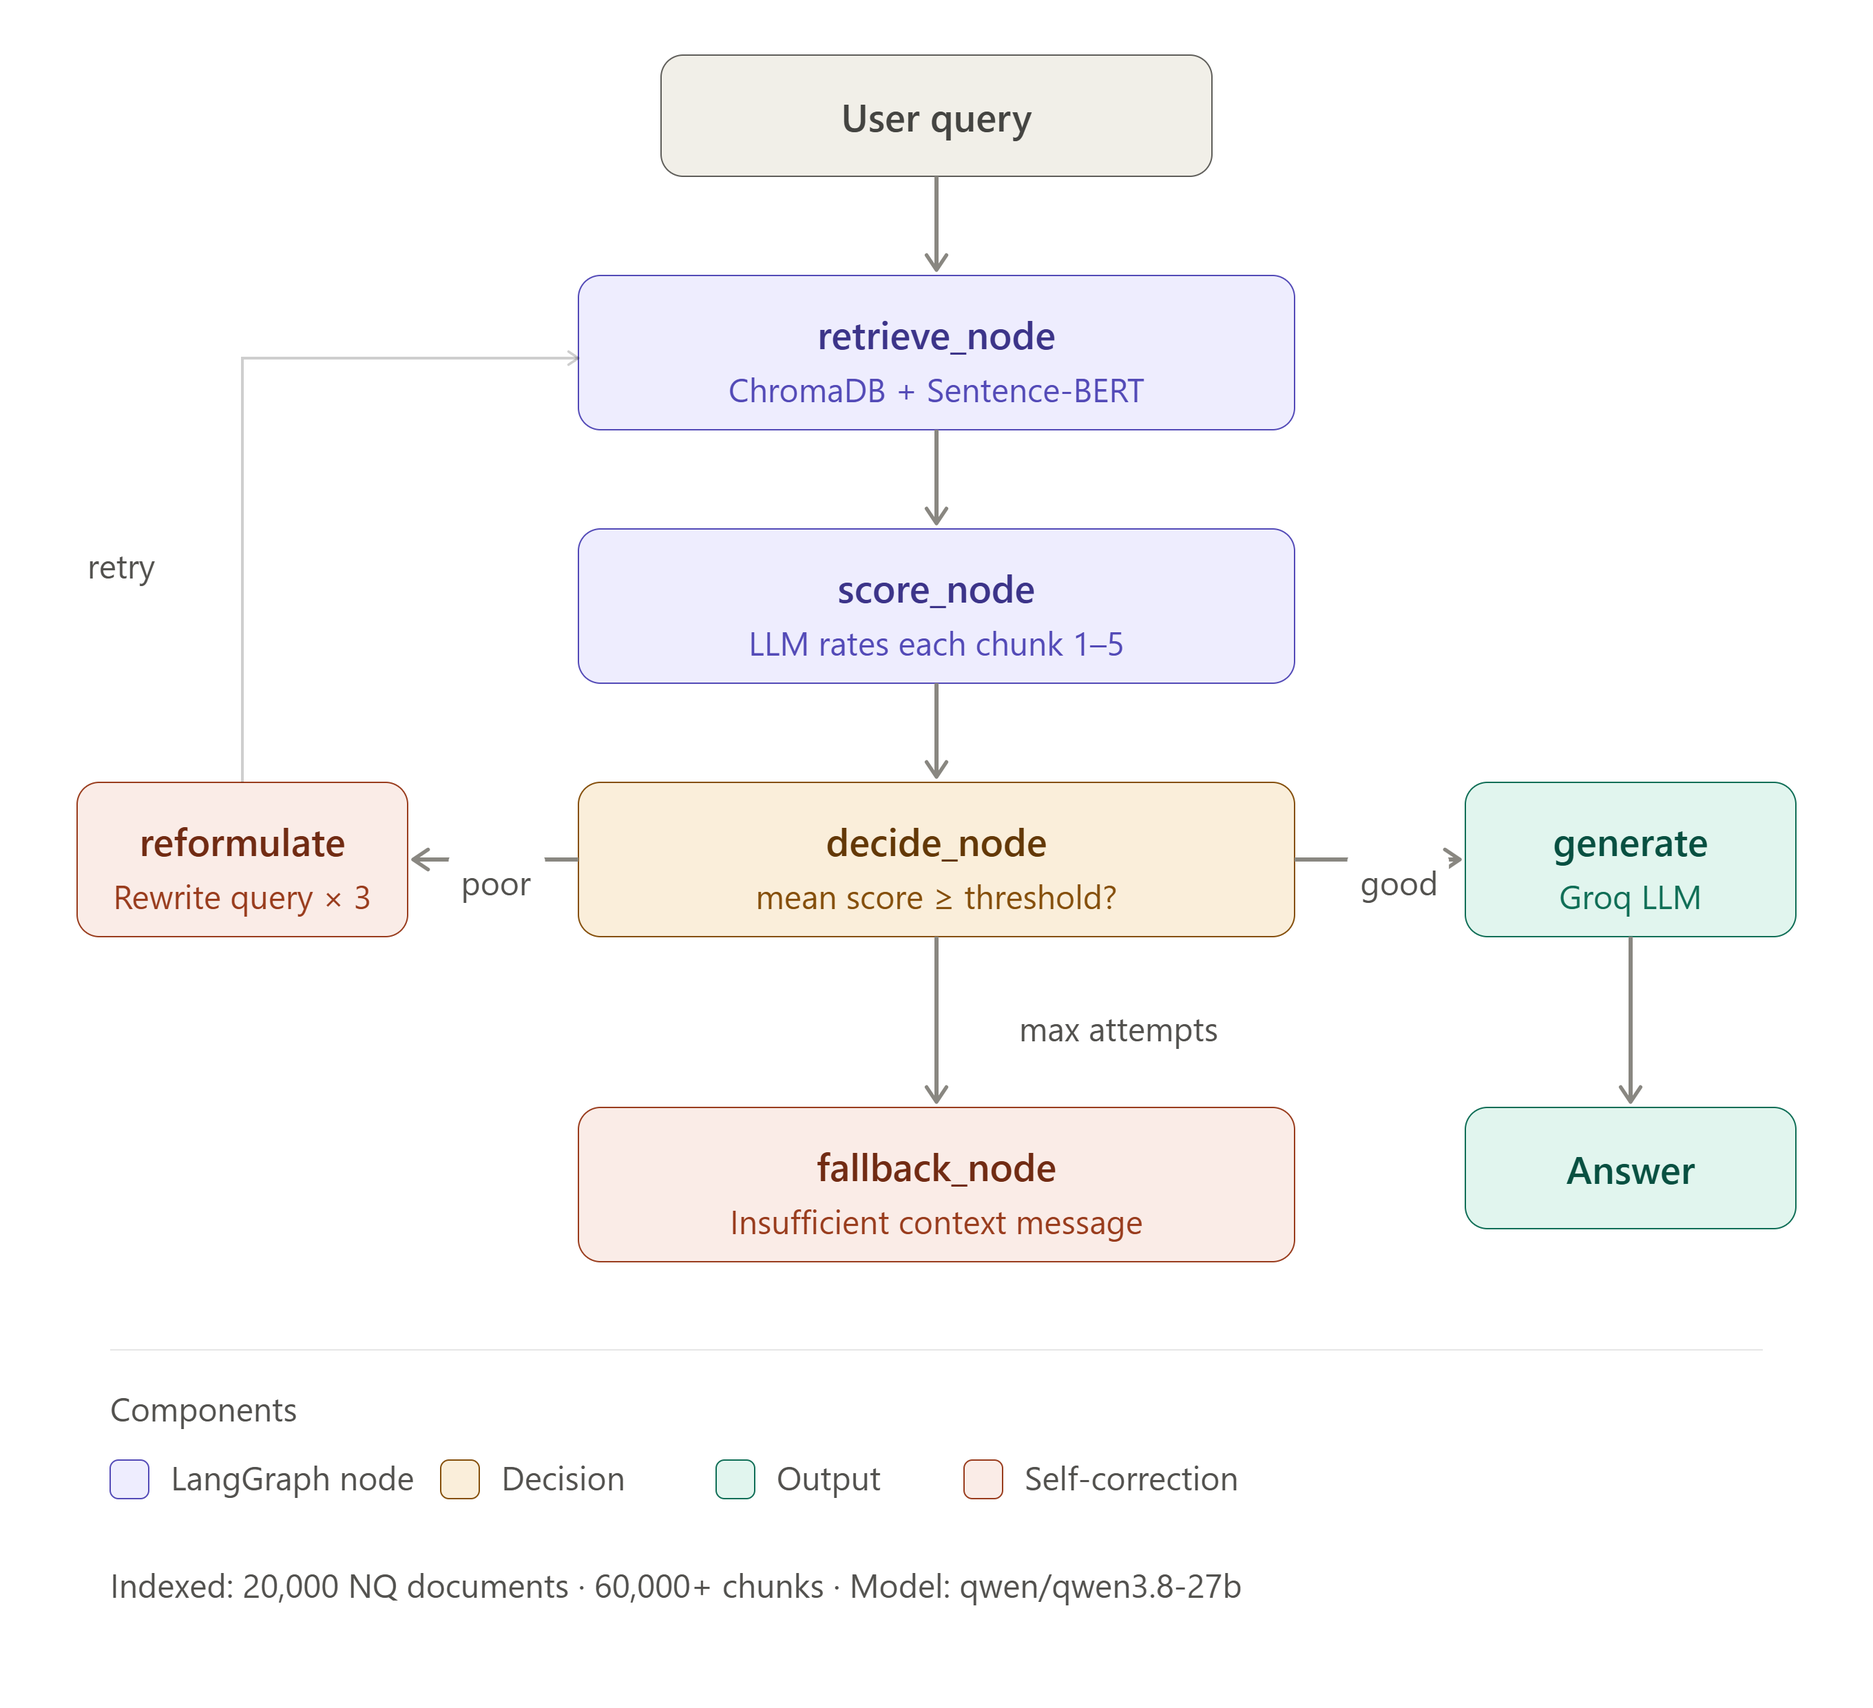
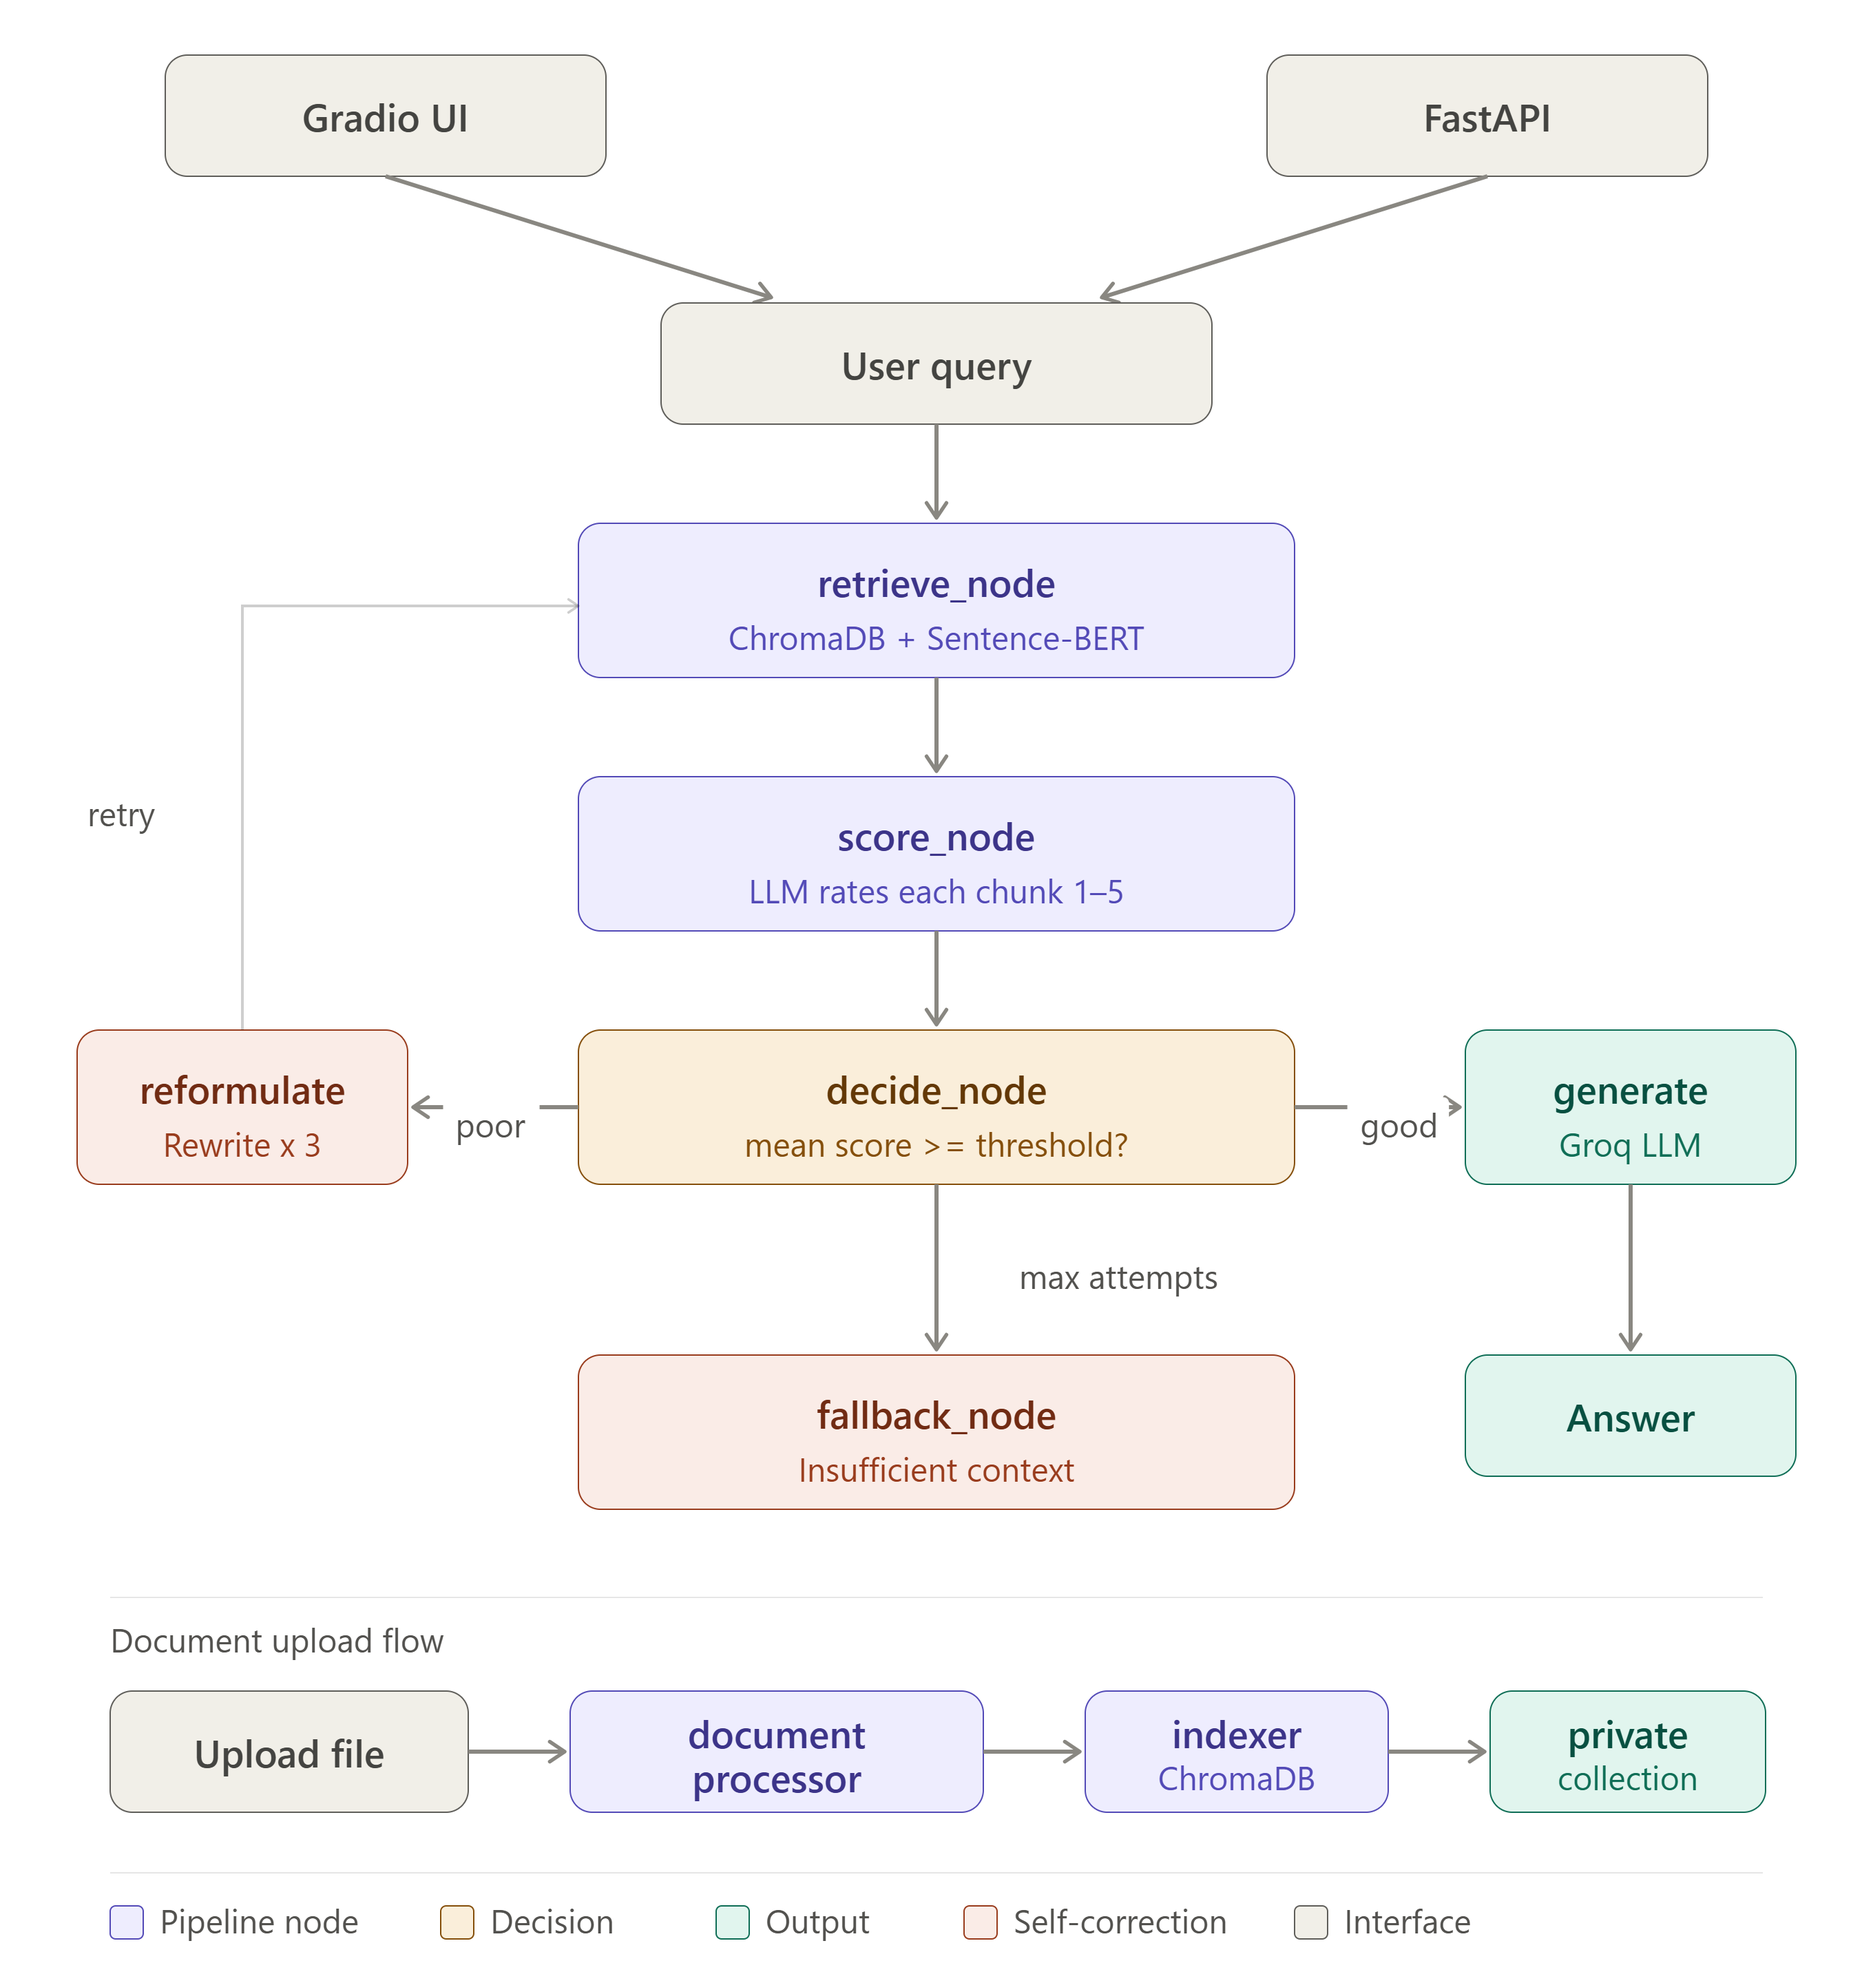
Updated Readme

diff --git a/README.md b/README.md
@@ -1,9 +1,8 @@
-# Self-Correcting RAG System
+# RETRACE — Self-Correcting RAG
 
 A Retrieval-Augmented Generation system that detects when retrieval fails and automatically fixes itself instead of hallucinating an answer.
 
-![UI Screenshot](assets/ui_screenshot1.png)
-![UI Screenshot 2](assets/ui_screenshot2.png)
+![UI Screenshot](assets/ui_screenshot.png)
 
 ---
 
@@ -11,27 +10,27 @@ A Retrieval-Augmented Generation system that detects when retrieval fails and au
 
 Standard RAG systems blindly trust whatever documents they retrieve. When the retrieved chunks don't actually contain the answer, the LLM still tries to answer and hallucinates. There's no mechanism to detect this failure or do anything about it.
 
+```
 User Query → Retrieve → Generate → Answer (even if wrong)
-
+```
 
 ## The Solution
 
-This system scores the quality of retrieved chunks before generating an answer. If the score is too low, it rewrites the query, retrieves again, and picks the best result. If nothing helps, it honestly says it doesn't have enough information.
+Instead of hoping retrieval works, this system checks — and retries if it doesn't.
 
+```
 User Query → Retrieve → Score chunks → Good? → Generate → Answer
-↓
-Poor? → Rewrite query → Retrieve again → Generate → Answer
-↓
-Still poor? → "Insufficient context"
-
+                                      ↓
+                                    Poor? → Rewrite query → Retrieve again → Generate → Answer
+                                                                           ↓
+                                                                    Still poor? → "Insufficient context"
+```
 
 ---
 
 ## Demo
 
-[![Demo Video](assets/demo_thumbnail.png)](assets/demo.mp4)
-
-> Or watch the demo: [Link to video]
+<!-- Add your screen recording link here -->
 
 ---
 
@@ -58,36 +57,23 @@ Evaluated on 100 questions from the Natural Questions dataset:
 
 ### How It Works
 
-**1. Retrieval**
-The user's question is converted to a vector embedding using `sentence-transformers/all-MiniLM-L6-v2` and searched against 60,000+ indexed chunks in ChromaDB.
+When a question comes in, the system embeds it using `sentence-transformers/all-MiniLM-L6-v2` and searches 60,000+ indexed chunks in ChromaDB.
 
-**2. Quality Scoring**
-Each retrieved chunk is scored 1-5 by the LLM:
-- **5** — Directly answers the question
-- **4** — Relevant and useful
-- **3** — Somewhat relevant
-- **2** — Marginally related
-- **1** — Completely irrelevant
+Before generating an answer, it scores each retrieved chunk 1-5 — asking the LLM "does this actually answer the question?" If the mean score is too low, it rewrites the query three ways (broader terms, synonyms, sub-questions), retrieves again for each rewrite, and picks whichever scored best.
 
-The mean score is compared against a threshold. If below → self-correction triggers.
+If even the best rewrite doesn't produce useful context, it returns "I don't have enough information" instead of guessing.
 
-**3. Query Reformulation**
-The LLM rewrites the original query 3 ways — broader terms, synonyms, sub-questions. Each rewrite is retrieved and scored. The best one is selected.
+The whole flow runs as a LangGraph state machine with 6 nodes:
 
-**4. Generation**
-The final answer is generated using the best available chunks.
-
-**5. LangGraph State Machine**
-The entire pipeline is implemented as a LangGraph StateGraph with 6 nodes:
-
+```
 retrieve_node → score_node → decide_node
-↓
-┌─────────────┼──────────────┐
-↓ ↓ ↓
-generate_node reformulate_node fallback_node
-↓ ↓
-END retrieve_node (loop back)
-
+                                  ↓
+                    ┌─────────────┼──────────────┐
+                    ↓             ↓              ↓
+              generate_node  reformulate_node  fallback_node
+                    ↓             ↓
+                   END        retrieve_node (loop back)
+```
 
 ---
 
@@ -111,6 +97,7 @@ END retrieve_node (loop back)
 
 ## Project Structure
 
+```
 self-correcting-rag/
 ├── api/
 │   ├── main.py                     ← FastAPI REST API (4 endpoints)
@@ -149,7 +136,7 @@ self-correcting-rag/
 ├── requirements.txt                ← Full dependencies (dev + eval)
 ├── requirements-app.txt            ← Minimal dependencies (Docker)
 └── README.md
-
+```
 
 ---
 
@@ -158,43 +145,31 @@ self-correcting-rag/
 ### Option 1 — Docker (Recommended)
 
 ```bash
-# Clone the repo
 git clone https://github.com/shrutidev18/self-correcting-rag.git
 cd self-correcting-rag
 
-# Add your Groq API key to .env
 cp .env.example .env
-# Edit .env and add GROQ_API_KEY=your_key_here
+# Edit .env and add GROQ_API_KEY and API_KEY
 
-# Run
 docker compose up
-
-# Open browser
-http://127.0.0.1:7860
 ```
+
+Open `http://127.0.0.1:7860`
 
 ### Option 2 — Local
 
 ```bash
-# Clone and setup
 git clone https://github.com/shrutidev18/self-correcting-rag.git
 cd self-correcting-rag
 python -m venv venv
 venv\Scripts\activate  # Windows
 pip install -r requirements.txt
 
-# Add your Groq API key
 cp .env.example .env
-# Edit .env and add GROQ_API_KEY=your_key_here
+# Edit .env and add GROQ_API_KEY and API_KEY
 
-# Index documents (first time only)
-python data/download_beir.py
-
-# Run UI
+python data/download_beir.py  # first time only
 python ui/gradio_app.py
-
-# Or run CLI
-python cli.py "What is photosynthesis?"
 ```
 
 ### Run Tests
@@ -202,8 +177,6 @@ python cli.py "What is photosynthesis?"
 ```bash
 pytest tests/ -v
 ```
-
----
 
 ---
 
@@ -216,7 +189,7 @@ You can upload your own PDF, Word (.docx), or TXT files and ask questions agains
 1. Open `http://127.0.0.1:7860`
 2. Go to the **Upload Documents** tab
 3. Upload your file and give your collection a name (e.g. `my_docs`)
-4. Go to the **Ask** tab, set collection to `my_docs`, and ask questions
+4. Go to the **Ask** tab, select `my_docs` from the dropdown, and ask questions
 
 ### Via the API
 
@@ -240,16 +213,11 @@ Each user gets a private collection — completely isolated from the default dat
 
 ## REST API
 
-The system exposes a FastAPI REST API alongside the Gradio UI.
-
-**Run the API:**
 ```bash
 uvicorn api.main:app --reload --port 8000
 ```
 
-**Interactive docs:** `http://127.0.0.1:8000/docs`
-
-**Authentication:** Every request requires an `X-API-Key` header.
+Interactive docs at `http://127.0.0.1:8000/docs`. Every request requires an `X-API-Key` header.
 
 | Endpoint | Method | Description |
 |---|---|---|
@@ -272,6 +240,7 @@ uvicorn api.main:app --reload --port 8000
   "sources": ["sih_document_10e83cdc_chunk_3"]
 }
 ```
+
 ---
 
 ## Get a Free Groq API Key
@@ -288,7 +257,7 @@ uvicorn api.main:app --reload --port 8000
 - Answer Relevancy improved by 8.4% with self-correction enabled
 - The scorer works well for clear cases (score 5 or 1) but struggles with ambiguous chunks
 - Reformulation helped most when the original query was too colloquial — e.g. "who sang go rest high on the mountain" → "original artist of Go Rest High on That Mountain"
-- The system correctly refused to answer rather than hallucinate in all fallback ca-
+- The system correctly refused to answer rather than hallucinate in all fallback cases
 
 ---
 
@@ -296,14 +265,14 @@ uvicorn api.main:app --reload --port 8000
 
 - Scorer adds latency (~2-5 seconds per query for 5 scoring calls)
 - Daily token limit on Groq free tier limits large-scale evaluation
-- The scorer sometimes gives harsh scores (all 1s except one 5) which can incorrectly flag good retrievals as poor, a larger model would judge more consistently
+- The scorer sometimes gives harsh scores which can incorrectly flag good retrievals as poor — a larger model would judge more consistently
 - Self-correction only retries once — multiple retries could improve recall further
 
 ---
 
 ## Built By
 
-**Shruti Dev**  
+**Shruti Dev**
 [LinkedIn](https://www.linkedin.com/in/shrutiidev) · [GitHub](https://github.com/shrutidev18)
 
 ---
